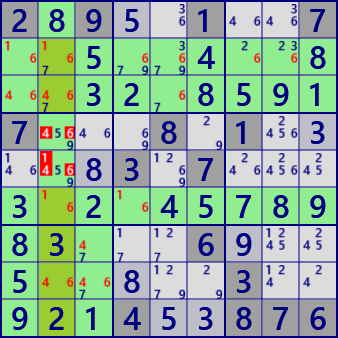
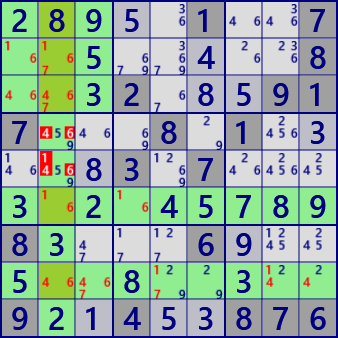
GNPX v6.20

diff --git a/docs/page60.html b/docs/page60.html
@@ -60,6 +60,7 @@
 
 							<li>Candidate numbers in the same Secters as the links, but not at the intersection, are excluded.</li>
 
+					<div><tt>
 					<p style="clear: both"></p>
 					<img src="images/img60/image60_MSLS01.png" alt="MSLS" width="30%"  style="float:left; margin-top:10px; margin-left: 5px;">
 					<p>
@@ -67,7 +68,7 @@
 						&nbsp; Multi Sector Locked Set<br>
 						&nbsp; size: 5<br>
 						&nbsp; Secters: r236 c2 b7<br>
-						&nbsp; Digits: #146<br>
+						&nbsp; Digits: #1467<br>
 						&nbsp; Links:  (c2)#1 (c2)#4 (c2)#6 (c2 b1)#7<br>
 						&nbsp; Exclude:  r5c2#1 r45c2#4 r45c2#6<br>
 					</p>
@@ -77,6 +78,7 @@
 						289..1..7 ..5.....8 ...2...91 7...8.1.. ...3.7... ..2.4...9 83...6... 5.....3.. 9..4..876 Puzzle<br>
 						2895.1..7 ..5..4..8 ..32.8591 7...8.1.3 ..83.7... 3.2.45789 83...69.. 5..8..3.. 921453876 Current</small><br><br>
 					</p>
+					</tt></div>
 				</p>
 
 			<H4 id="head_bg_LightBlue" id="SE">&nbsp;Multi Secter Locked Sets(MSLS) の仕組み</H4>
